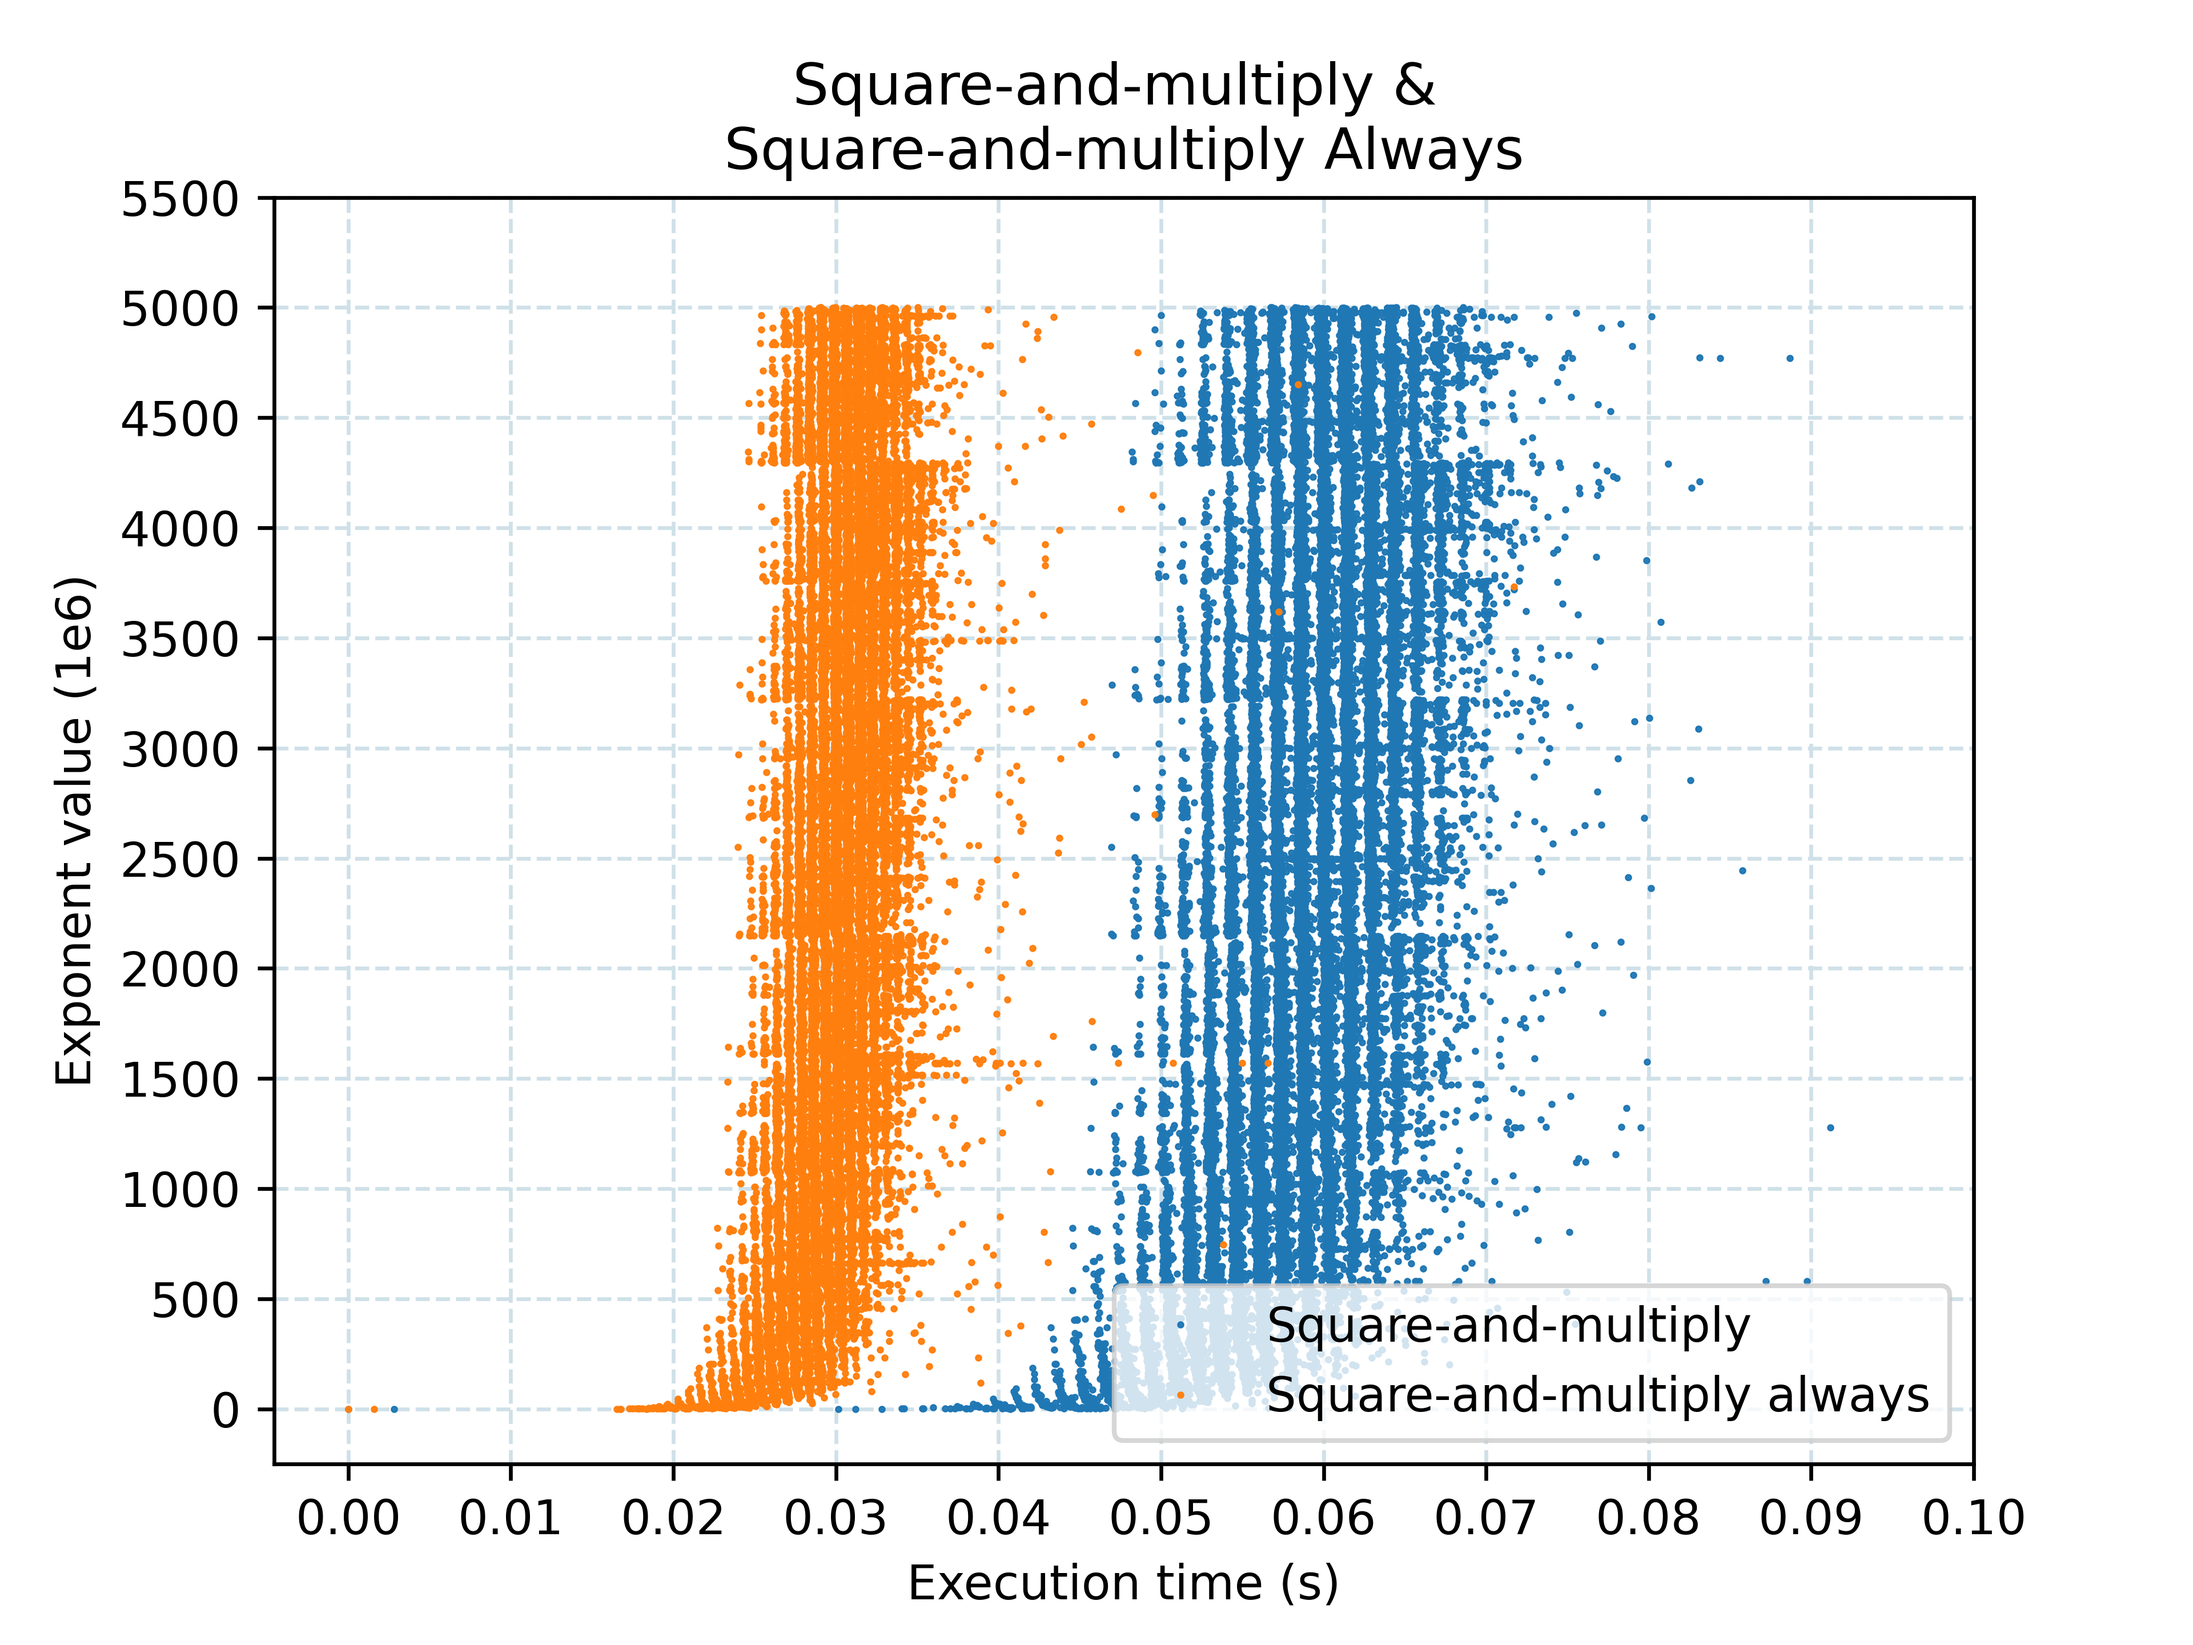
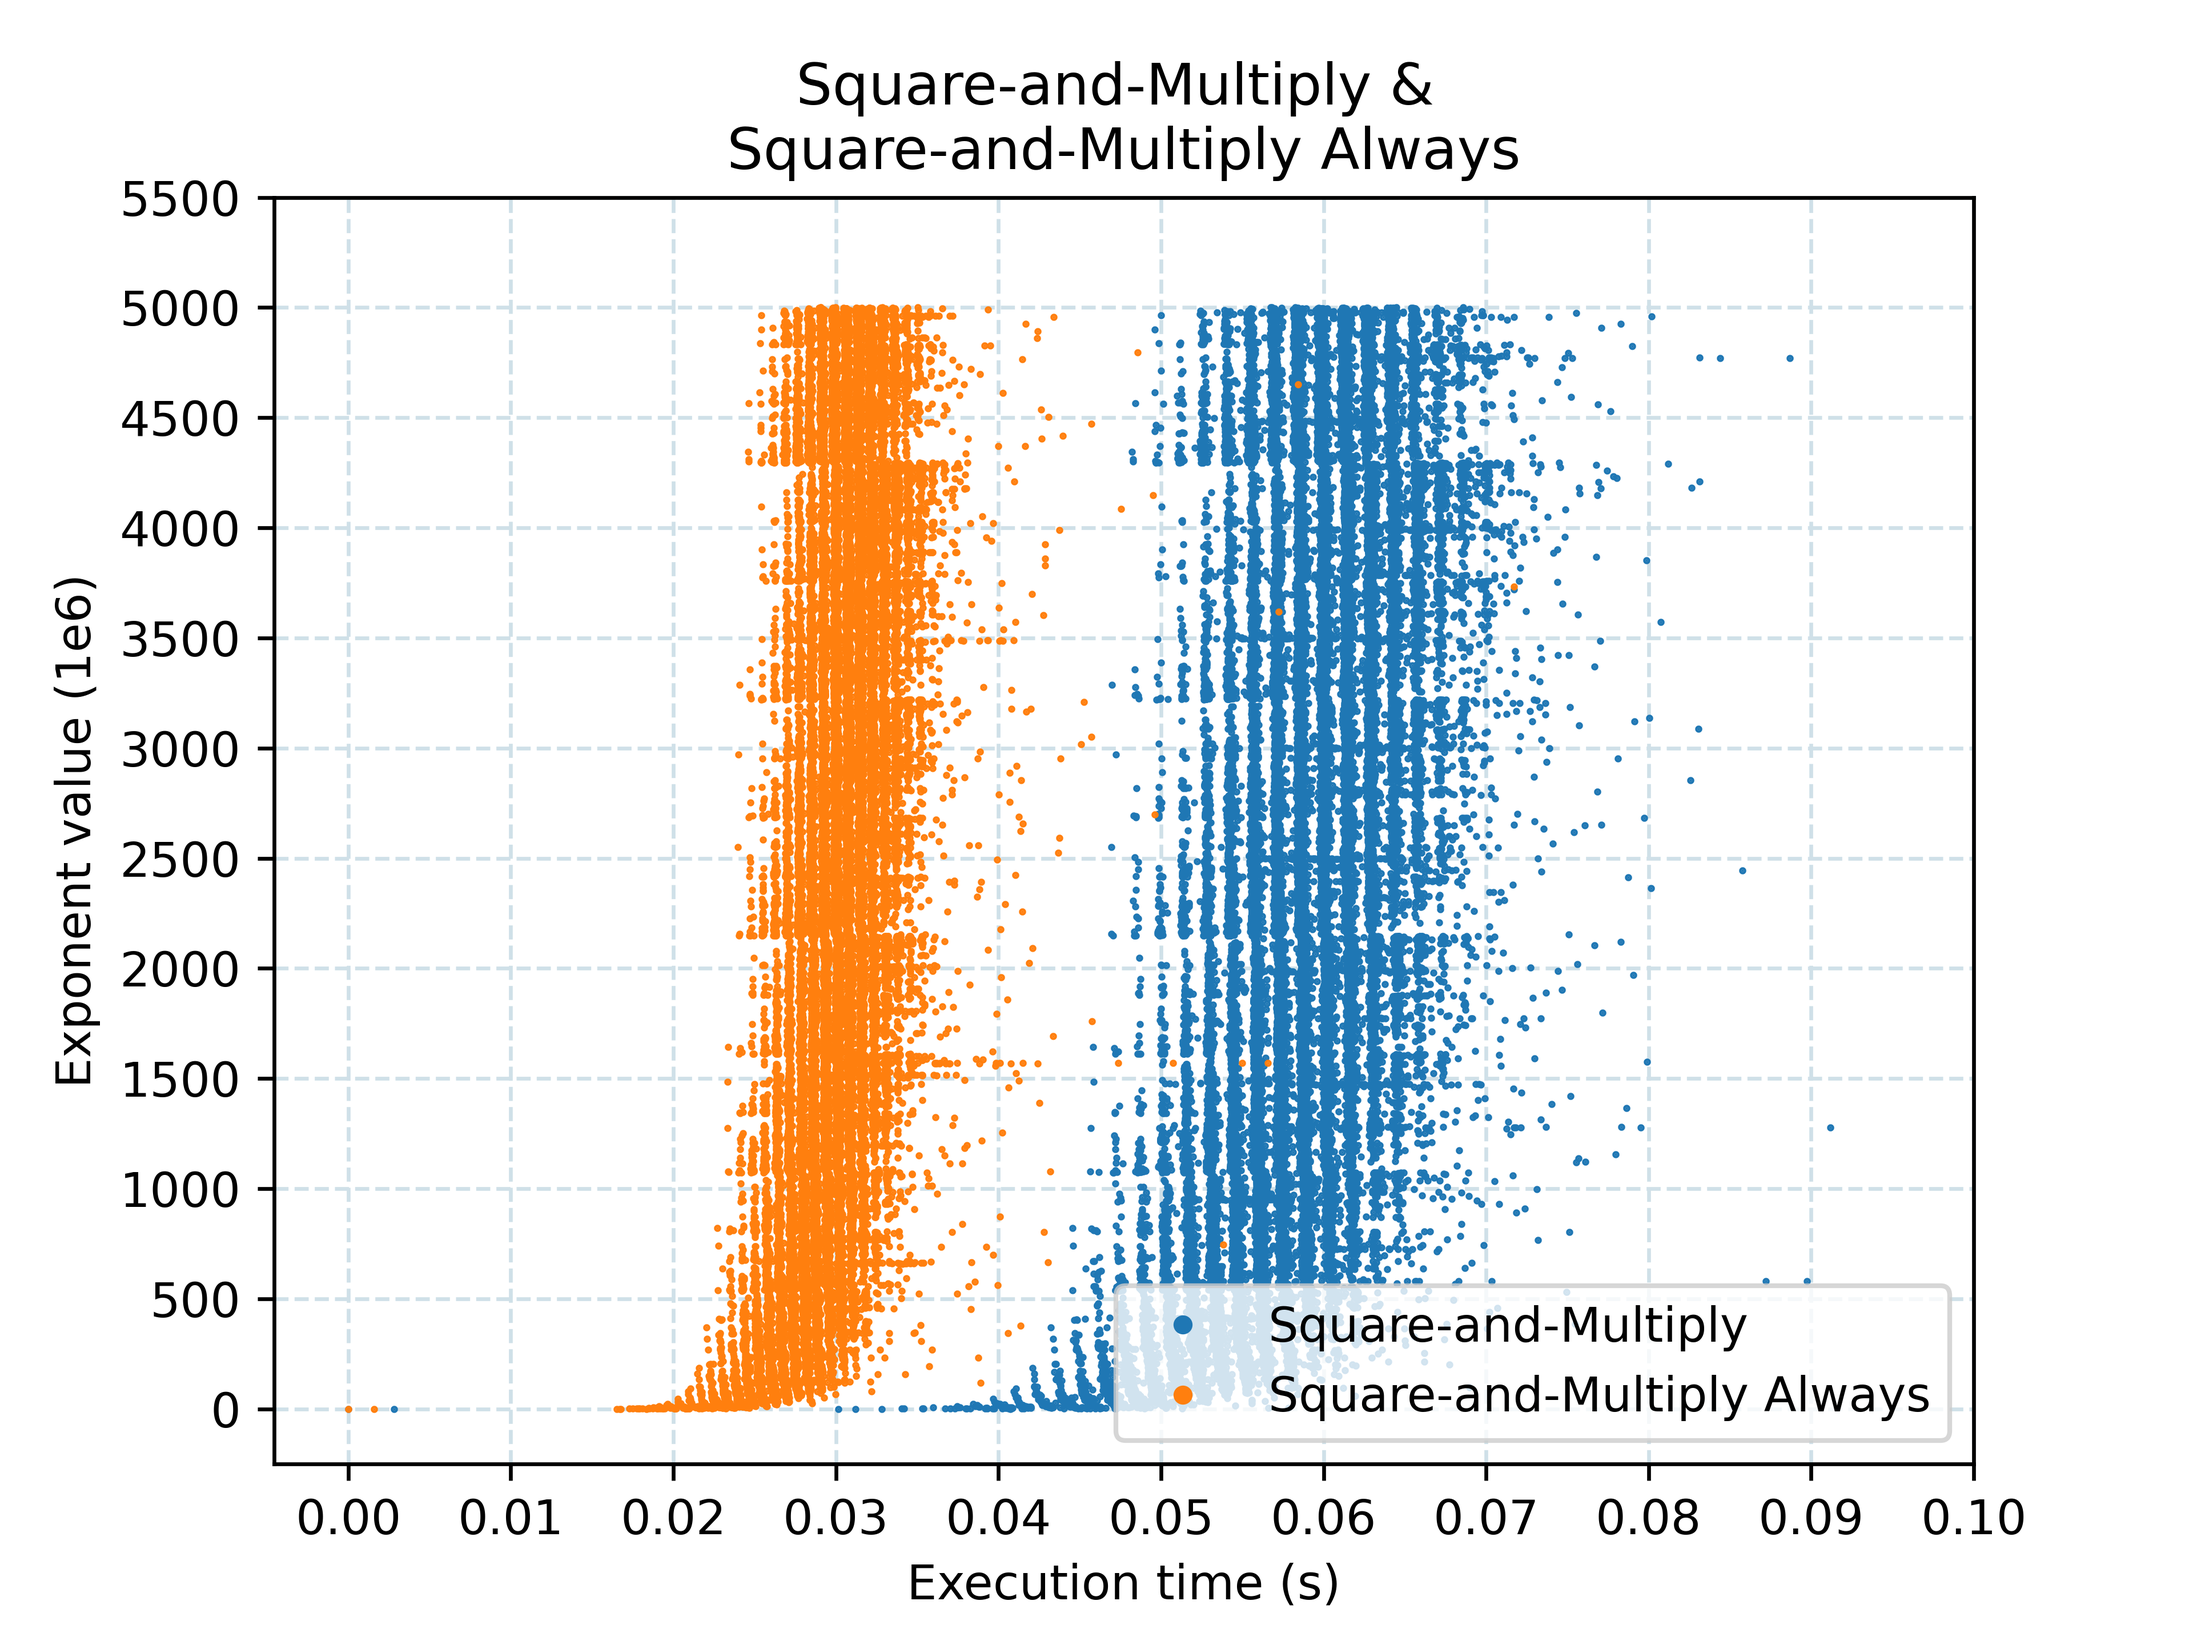
Graphs automatized finished, trully, believe me

Changed region(s): [[0.3438, 0.0312, 0.6875, 0.125], [0.5938, 0.7812, 0.8125, 0.875], [0.5938, 0.7812, 0.625, 0.8125]]

diff --git a/Countermeasures/src/graph/createGraph.py b/Countermeasures/src/graph/createGraph.py
@@ -10,13 +10,22 @@ def create_graph():
                       MULT_ALW_FOLDER_PATH + MULT_ALW_FILE_PATH,
                       MULT_LD_FOLDER_PATH + MULT_LD_FILE_PATH])
 
+    plt_counter = 0
     for idx, arr in enumerate(data):  # Single graphs
         createPlots(EXE_COL, EXP_COL, data[idx], LABEL[idx], COLOUR[idx],
-                    X_AXIS, Y_AXIS, POINT_SIZE, NAME[idx], AXIS, GRID_LINESTYLE)
+                    X_AXIS, Y_AXIS, POINT_SIZE, NAME[idx], AXIS,
+                    GRID_LINESTYLE)
+        plt_counter += 1
+
+        lgnd = plt.legend(loc="lower right", numpoints=1, fontsize=10)
+        for i in range(0, plt_counter):
+            lgnd.legendHandles[i]._legmarker.set_markersize(POINT_SIZE_LEGEND)
 
         plt.savefig(IMG_FOLDER_PATH + IMG[idx] + ".png", dpi=600)
         plt.close()
+        plt_counter = 0
 
+    plt_counter = 0
     for idx, arr in enumerate(data):  # Multiple graphs
         name = ""
         name_plt = ""
@@ -26,18 +35,30 @@ def create_graph():
             name += IMG_FOLDER_PATH + IMG[idx]
             name_plt += NAME_AUX[idx]
             createPlots(EXE_COL, EXP_COL, data[idx], LABEL[idx], COLOUR[idx],
-                        X_AXIS, Y_AXIS, POINT_SIZE, NAME[idx], AXIS, GRID_LINESTYLE, grid_colour=GRID_COLOUR)
+                        X_AXIS, Y_AXIS, POINT_SIZE, NAME[idx], AXIS,
+                        GRID_LINESTYLE, grid_colour=GRID_COLOUR)
+            plt_counter += 1
 
         for i in range(idx + 1, len(data)):  # Each graph prints the comparison with the following ones
             createPlots(EXE_COL, EXP_COL, data[i], LABEL[i], COLOUR[i],
-                        X_AXIS, Y_AXIS, POINT_SIZE, NAME[i], AXIS, GRID_LINESTYLE, grid_colour=GRID_COLOUR)
+                        X_AXIS, Y_AXIS, POINT_SIZE, NAME[i], AXIS,
+                        GRID_LINESTYLE, grid_colour=GRID_COLOUR)
+            plt_counter += 1
 
             name += " & " + IMG[i]
             name_plt += " & \n" + NAME_AUX[i]
+
+        lgnd = plt.legend(loc="lower right", numpoints=1, fontsize=10)
+        for i in range(0, plt_counter):
+            lgnd.legendHandles[i]._legmarker.set_markersize(POINT_SIZE_LEGEND)
+
         plt.title(name_plt)
         plt.savefig(name + ".png", dpi=600)
-        plt.close()
 
+        plt.close()
+        plt_counter = 0
+
+    plt_counter = 0
     for idx, arr in enumerate(data):  # Two graphs - Not last
         if idx == len(data) - 2:  # The two last ones are handled in the loop before
             break
@@ -46,17 +67,26 @@ def create_graph():
             name = IMG_FOLDER_PATH + IMG[idx]  # Base graph
             name_plt = NAME_AUX[idx]
             createPlots(EXE_COL, EXP_COL, data[idx], LABEL[idx], COLOUR[idx],
-                        X_AXIS, Y_AXIS, POINT_SIZE, NAME[idx], AXIS, GRID_LINESTYLE, grid_colour=GRID_COLOUR)
+                        X_AXIS, Y_AXIS, POINT_SIZE, NAME[idx], AXIS,
+                        GRID_LINESTYLE, grid_colour=GRID_COLOUR)
+            plt_counter += 1
 
             name += " & " + IMG[i]
             name_plt += " & \n" + NAME_AUX[i]
 
             createPlots(EXE_COL, EXP_COL, data[i], LABEL[i], COLOUR[i],  # Graph compared to
-                        X_AXIS, Y_AXIS, POINT_SIZE, NAME[i], AXIS, GRID_LINESTYLE, grid_colour=GRID_COLOUR)
+                        X_AXIS, Y_AXIS, POINT_SIZE, NAME[i], AXIS,
+                        GRID_LINESTYLE, grid_colour=GRID_COLOUR)
+            plt_counter += 1
+
+            lgnd = plt.legend(loc="lower right", numpoints=1, fontsize=10)
+            for i in range(0, plt_counter):
+                lgnd.legendHandles[i]._legmarker.set_markersize(POINT_SIZE_LEGEND)
 
             plt.title(name_plt)
             plt.savefig(name + ".png", dpi=600)
             plt.close()
+            plt_counter = 0
 
 
 def readfiles(files):
@@ -77,7 +107,8 @@ def readfiles(files):
 
 
 def createPlots(c1, c2, data, label, colour,
-                x_axis, y_axis, point_size, name, axis, grid_linestyle, grid_colour=None):
+                x_axis, y_axis, point_size, name, axis,
+                grid_linestyle, grid_colour=None):
     x = data[c1]
     y = data[c2]
 
@@ -93,8 +124,6 @@ def createPlots(c1, c2, data, label, colour,
     plt.xlabel(axis[0])
     plt.ylabel(axis[1])
 
-    lgnd = plt.legend(loc="lower right", numpoints=1, fontsize=10)
-    # lgnd.legendHandles[0]._legmarker.set_markersize(4)
     if grid_colour is None:
         plt.grid(True, color=colour, alpha=0.3, linestyle=grid_linestyle)
     else:

diff --git a/Countermeasures/src/constants/constants.py b/Countermeasures/src/constants/constants.py
@@ -1,9 +1,9 @@
 E = [  # Exponent Ranges to be used
     3,
-    1000000000  # 25.000.000.000
+    10000000000000  #  10.000.000.000.000
 ]
 # Increasing step for the key size
-E_STEP = 100000  # 100.000
+E_STEP = 1000000000  #      1.000.000.000
 
 N = 27717198807036709102711477657025983617502189422543517905554501821161346254130760336204092270200197509467985755394526028473796034663721327054486638927175954564808691810080519062784197427810586161599679574597325760584115699356926794000564365281475555146315301171339698824702726078232606714100029908329093194873169775904214268411350637699128923863579883976112406497794312324708356527742150589471693240852100363708141384315549913115049080003062029528488019729045406176208958331530172506084228295609516491963165404242917465291446904267476177696488980842033713996568489235543578188484252001277672931897068216357192983696503
 
@@ -46,20 +46,20 @@ GRID_COLOUR = '#cfe0e8'
 GRID_LINESTYLE = '--'
 
 LABEL = [
-    "Square-and-multiply",
-    "Square-and-multiply always",
+    "Square-and-Multiply",
+    "Square-and-Multiply Always",
     "Montgomery Ladder"
 ]
 
 NAME = [
-    "Square-and-multiply Algorithm",
-    "Square-and-multiply Always Algorithm",
+    "Square-and-Multiply Algorithm",
+    "Square-and-Multiply Always Algorithm",
     "Montgomery Ladder Algorithm"
 ]
 
 NAME_AUX = [
-    "Square-and-multiply",
-    "Square-and-multiply Always",
+    "Square-and-Multiply",
+    "Square-and-Multiply Always",
     "Montgomery Ladder"
 ]
 
@@ -78,3 +78,4 @@ Y_AXIS = [0,
           500]
 
 POINT_SIZE = .25
+POINT_SIZE_LEGEND = 3
